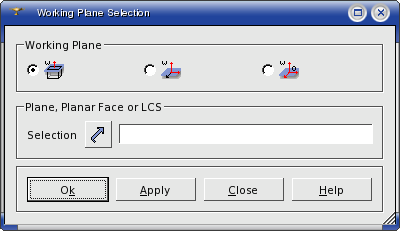
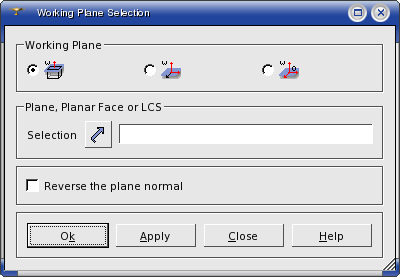
Updatin GUI documentation for PAL13459

Changed region(s): [[0.0, 0.1515, 1.0, 1.0], [0.0, 0.0, 1.0, 0.1212], [0.99, 0.1515, 1.0, 0.2121]]

diff --git a/doc/salome/gui/GEOM/working_plane.htm b/doc/salome/gui/GEOM/working_plane.htm
@@ -17,9 +17,20 @@ if (navigator.appName !="Netscape")
 img_whs1 { width:20px; height:20px; border-style:none; }
 p.whs2 { font-size:12pt; }
 p.whs3 { font-size:12pt; margin-left:40px; }
-img_whs4 { border:none; width:400px; height:231px; float:none; }
-img_whs5 { border:none; width:312px; height:266px; float:none; border-style:none; }
-img_whs6 { border:none; width:312px; height:274px; float:none; border-style:none; }
+img_whs4 { border:none; width:400px; height:277px; float:none; border-style:none; }
+img_whs5 { border:none; width:400px; height:312px; float:none; border-style:none; }
+img_whs6 { border:none; width:400px; height:320px; float:none; border-style:none; }
+table.whs7 { x-cell-content-align:top; width:39.231%; border-spacing:0px; }
+col.whs8 { width:52.696%; }
+col.whs9 { width:47.304%; }
+tr.whs10 { x-cell-content-align:top; }
+td.whs11 { width:52.696%; padding-right:10px; padding-left:10px; border-bottom-style:none; border-right-style:none; border-left-style:none; border-top-style:none; }
+p.whs12 { font-style:italic; }
+td.whs13 { width:47.304%; padding-right:10px; padding-left:10px; border-bottom-style:none; border-top-style:none; border-right-style:none; }
+td.whs14 { width:52.696%; padding-right:10px; padding-left:10px; border-right-style:none; border-left-style:none; border-bottom-style:none; }
+img_whs15 { border:none; width:176px; height:217px; border-style:none; }
+td.whs16 { width:47.304%; padding-right:10px; padding-left:10px; border-bottom-style:none; border-right-style:none; }
+img_whs17 { border:none; width:191px; height:217px; border-style:none; }
 -->
 </style><script type="text/javascript" language="JavaScript" title="WebHelpInlineScript">
 <!--
@@ -82,14 +93,20 @@ if (window.writeIntopicBar)
 </script>
 <h1><b style="font-weight: bold;"><span style="font-size: 14pt;"><font size=4 style="font-size:14pt;"><img src="files/salome2_sp3_basicgui_functions_salome2_sp3_basicgui_functions_image34.gif" width="20px" height="20px" border="0" class="img_whs1"></font></span></b>Working Plane</h1>
 
+<p>Definition of a <span style="font-weight: bold;"><B>Working Plane</B></span> 
+ is necessary for work with <span style="font-weight: bold;"><B><a href="sketcher.htm">Sketcher</a></B></span>. 
+ </p>
+
+<p>&nbsp;</p>
+
 <p>To create a <span style="font-weight: bold;"><B>Working Plane</B></span> in 
  the <span style="font-weight: bold;"><B>Main Menu</B></span> select <span style="font-weight: bold;"><B>New 
  Entity - &gt; Basic - &gt; Working Plane</B></span></p>
 
 <p class="whs2">&nbsp;</p>
 
-<p class="whs2">There are some algorithms to set the <span 
- style="font-weight: bold;"><B>Working Plane</B></span> and the Camera Position.</p>
+<p class="whs2">There is a number of algorithms to set the 
+ <span style="font-weight: bold;"><B>Working Plane</B></span> and the Camera Position.</p>
 
 <p class="whs2">&nbsp;</p>
 
@@ -98,12 +115,12 @@ if (window.writeIntopicBar)
  Face</B></span> or a <span style="font-weight: bold;"><B>Local Coordinate System</B></span> 
  to be your <span style="font-weight: bold;"><B>Working Plane</B></span></p>
 
-<p class="whs2"><b>Arguments:</b> Name + 1 selection (face 
- or planar face), </p>
+<p class="whs2"><b style="font-weight: bold;">Arguments:</b> 
+ Name + 1 selection (face or planar face), </p>
 
 <p class="whs2">&nbsp;</p>
 
-<p class="whs3"><img src="pics/workplane4.png" x-maintain-ratio="TRUE" width="400px" height="231px" border="0" class="img_whs4"></p>
+<p class="whs3"><img src="pics/workplane4.png" x-maintain-ratio="TRUE" width="400px" height="277px" border="0" class="img_whs4"></p>
 
 <p class="whs2">&nbsp;</p>
 
@@ -112,9 +129,11 @@ if (window.writeIntopicBar)
 
 <p class="whs2"><b style="font-weight: bold;">Arguments:</b> 
  Name + &nbsp;2 
- vectors, </p>
+ vectors.</p>
 
-<p class="whs3"><img src="pics/workplane5.png" x-maintain-ratio="TRUE" width="312px" height="266px" border="0" class="img_whs5"></p>
+<p class="whs2">&nbsp;</p>
+
+<p class="whs3"><img src="pics/workplane5.png" x-maintain-ratio="TRUE" width="400px" height="312px" border="0" class="img_whs5"></p>
 
 <p class="whs2">&nbsp;</p>
 
@@ -124,9 +143,38 @@ if (window.writeIntopicBar)
 
 <p class="whs2">&nbsp;</p>
 
-<p class="whs3"><img src="pics/workplane6.png" x-maintain-ratio="TRUE" width="312px" height="274px" border="0" class="img_whs6"></p>
+<p class="whs3"><img src="pics/workplane6.png" x-maintain-ratio="TRUE" width="400px" height="320px" border="0" class="img_whs6"></p>
 
-<p class="whs2">&nbsp;</p>
+<p>&nbsp;</p>
+
+<p><span style="font-weight: bold;"><B>Reverse the plane normal</B></span> checkbox 
+ allows changing the direction of the working plane.</p>
+
+<p>&nbsp;</p>
+
+<p><span style="font-weight: bold;"><B>Example:</B></span> Working plane on the 
+ upper face of a box. &nbsp;</p>
+
+<p>&nbsp;</p>
+
+<table x-use-null-cells cellspacing="0" width="39.231%" class="whs7">
+<col class="whs8">
+<col class="whs9">
+
+<tr valign="top" class="whs10">
+<td width="52.696%" class="whs11">
+<p class="whs12">Normal Direction</td>
+<td width="47.304%" class="whs13">
+<p class="whs12">Reversed Direction</td></tr>
+
+<tr valign="top" class="whs10">
+<td width="52.696%" class="whs14">
+<p><img src="image36.gif" width="176px" height="217px" border="0" class="img_whs15"></td>
+<td width="47.304%" class="whs16">
+<p><img src="image47.gif" width="191px" height="217px" border="0" class="img_whs17"></td></tr>
+</table>
+
+<p>&nbsp;</p>
 
 <p>&nbsp;</p>
 
